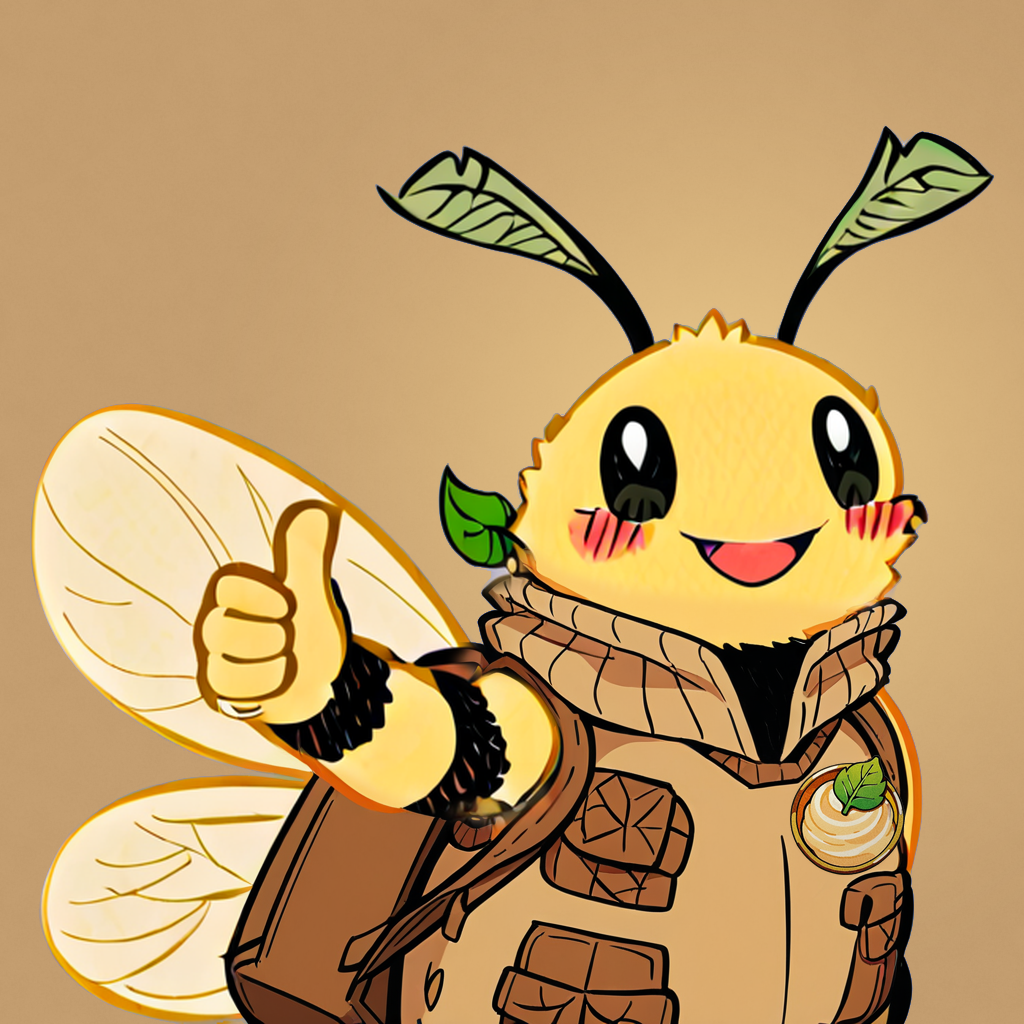
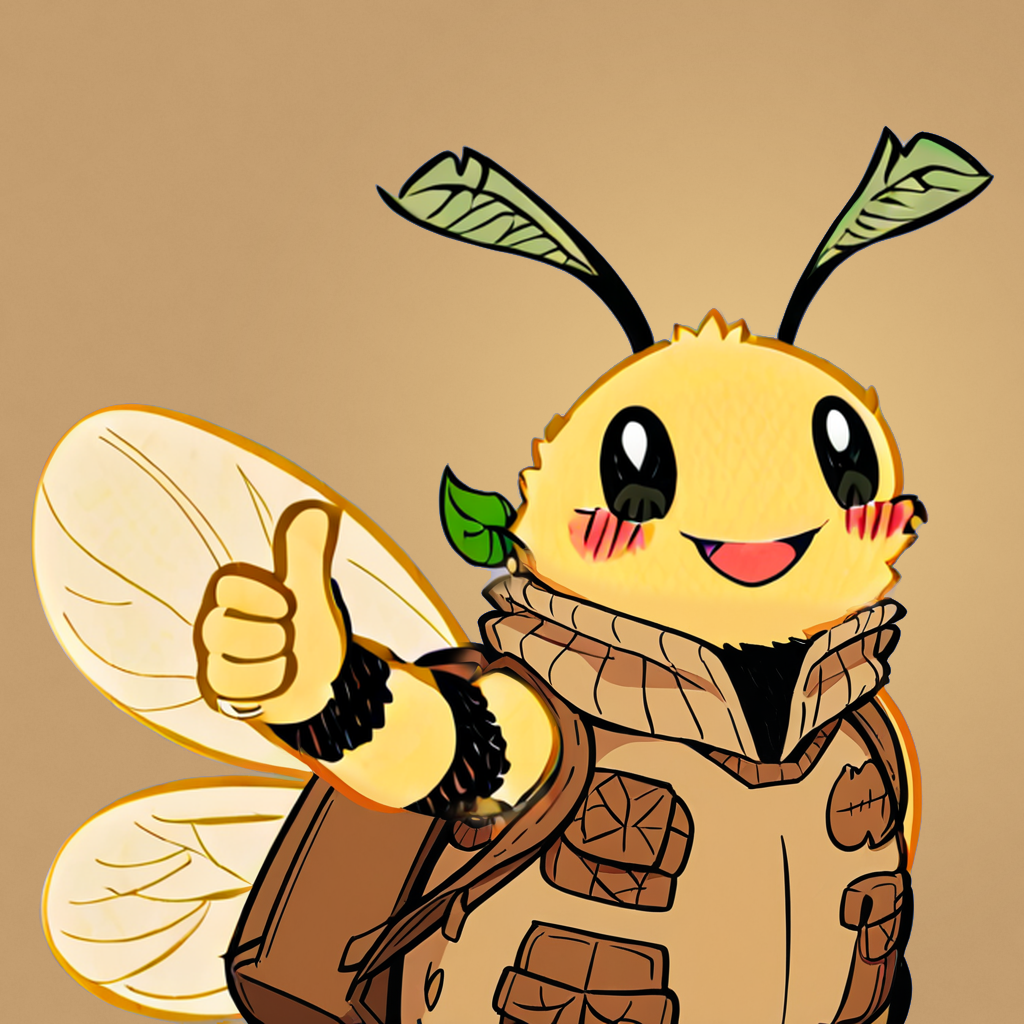
Rank cards without the item circle and the collar badge
The five Bee Guardian rank pictures, the showcase cards, the share art and
the How it works stamp picture are re-rendered without them.

Claude-Session: https://claude.ai/code/session_01HWHP3iugw8gkvvKKS5vpBj

Changed region(s): [[0.75, 0.7188, 0.9062, 0.875]]

diff --git a/components/landing/Landing.tsx b/components/landing/Landing.tsx
@@ -55,7 +55,7 @@ function PhoneMockup() {
         ))}
       </ul>
       <div className="mt-3 flex items-center gap-2 rounded-xl bg-kraft/50 p-2">
-        <Image src="/landing/cards/warden.webp" alt="" width={600} height={840} sizes="40px" className="w-10 rounded-md" />
+        <Image src="/landing/cards/v2/warden.webp" alt="" width={600} height={840} sizes="40px" className="w-10 rounded-md" />
         <span className="text-[12px] font-bold leading-tight">Bee Guardian · Warden<br /><span className="font-semibold text-cocoa/80">Soulbound NFT, earned at {RANKS[1].at} points</span></span>
       </div>
     </div>
@@ -292,7 +292,7 @@ export default async function Landing({ stats }: { stats: LandingStats | null })
               <ul className="scroll-snap-x no-scrollbar -mx-5 mt-3 flex gap-4 overflow-x-auto px-5 pb-2 sm:-mx-10 sm:px-10 lg:mx-0 lg:mt-8 lg:grid lg:grid-cols-5 lg:gap-3 lg:overflow-visible lg:px-0" aria-label="The five Bee Guardian ranks">
                 {RANKS.map((r, i) => (
                   <li key={r.key} className="w-[150px] shrink-0 text-center lg:w-auto" style={{ transform: `rotate(${(i - 2) * 2.5}deg)` }}>
-                    <Image src={`/landing/cards/${r.key}.webp`} alt={`${r.name} Bee Guardian card`} width={600} height={840} sizes="150px" className="w-full rounded-[10px] shadow-[0_10px_24px_rgba(58,42,28,0.25)]" />
+                    <Image src={`/landing/cards/v2/${r.key}.webp`} alt={`${r.name} Bee Guardian card`} width={600} height={840} sizes="150px" className="w-full rounded-[10px] shadow-[0_10px_24px_rgba(58,42,28,0.25)]" />
                     <span className="mt-3 block text-[14px] font-extrabold">{r.name}</span>
                     <span className="block text-[12px] font-bold text-cocoa/80">{r.at} point{r.at === 1 ? "" : "s"}</span>
                   </li>

diff --git a/components/landing/HowItWorks.tsx b/components/landing/HowItWorks.tsx
@@ -118,7 +118,7 @@ export default function HowItWorks({ r }: { r: LandingRecord | null }) {
           <div className="grid gap-8 md:grid-cols-[minmax(0,5fr)_minmax(0,7fr)] md:items-center md:gap-12">
             <div className="mx-auto w-full max-w-[420px]">
               {open ? <StampJourney door="visit" r={r} /> : (
-                <Image src={`${PIC}/stamp.webp`} alt="Four steps on kraft paper: a phone scans the EcoProof QR code, the record is hashed and written to Solana as a proof, the stamp lands in the eco passport, and the Sentinel Bee Guardian card is minted" width={800} height={800} sizes="(min-width: 768px) 420px, 100vw" className="sticker aspect-square w-full object-cover" style={{ transform: "rotate(1.2deg)" }} />
+                <Image src={`${PIC}/stamp-clean.webp`} alt="Four steps on kraft paper: a phone scans the EcoProof QR code, the record is hashed and written to Solana as a proof, the stamp lands in the eco passport, and the Sentinel Bee Guardian card is minted" width={800} height={800} sizes="(min-width: 768px) 420px, 100vw" className="sticker aspect-square w-full object-cover" style={{ transform: "rotate(1.2deg)" }} />
               )}
             </div>
             <div>

diff --git a/components/landing/HeroArt.tsx b/components/landing/HeroArt.tsx
@@ -42,7 +42,7 @@ export default function HeroArt() {
       <div className="fan absolute bottom-[26px] left-1/2 h-[280px] w-[200px] -translate-x-1/2 lg:bottom-[40px] lg:h-[420px] lg:w-[300px]">
         {RANKS.map((rank) => (
           <div key={rank.key} className="fan-card absolute inset-0 origin-bottom" style={{ "--r": `${fan[rank.key].r}deg`, "--ro": `${fan[rank.key].r * 2.2}deg`, zIndex: fan[rank.key].z } as React.CSSProperties}>
-            <Image src={`/landing/cards/${rank.key}.webp`} alt={`${rank.name} rank card`} width={600} height={840} priority={rank.key === "paragon"} sizes="(min-width: 1024px) 300px, 200px" className="h-full w-full rounded-[12px] shadow-[0_18px_40px_rgba(58,42,28,0.28)] lg:rounded-[16px]" />
+            <Image src={`/landing/cards/v2/${rank.key}.webp`} alt={`${rank.name} rank card`} width={600} height={840} priority={rank.key === "paragon"} sizes="(min-width: 1024px) 300px, 200px" className="h-full w-full rounded-[12px] shadow-[0_18px_40px_rgba(58,42,28,0.28)] lg:rounded-[16px]" />
           </div>
         ))}
       </div>

diff --git a/components/landing/MapPicture.tsx b/components/landing/MapPicture.tsx
@@ -95,7 +95,7 @@ function ScanPhone() {
       </div>
       <p className="mt-2 flex items-center gap-1.5 rounded-xl bg-white/70 px-2.5 py-2 text-[11px] font-bold leading-snug"><Check size={14} strokeWidth={3} className="shrink-0 text-[#56633f]" aria-hidden /> Proof written to Solana. Nobody can fake it.</p>
       <div className="mt-2 flex items-center gap-2.5 rounded-xl bg-white/70 px-2.5 py-2">
-        <Image src="/landing/cards/sentinel.webp" alt="" width={600} height={840} sizes="40px" className="w-10 rounded-[5px] shadow-sm" />
+        <Image src="/landing/cards/v2/sentinel.webp" alt="" width={600} height={840} sizes="40px" className="w-10 rounded-[5px] shadow-sm" />
         <p className="text-[11px] font-bold leading-snug">Bee Guardian NFT unlocked and minted<span className="font-journal-display block text-[15px] leading-tight">Sentinel</span></p>
       </div>
     </div>

diff --git a/CLAUDE.md b/CLAUDE.md
@@ -97,7 +97,7 @@ on Solana. For sustainable shops, cafés, markets and online brands.
   (same Illustrious checkpoint as the cards), as two static images: the plate's own sky extended upward (`sky_static.py`) behind the copy, and
   the island cutout (`layers_cut.py`) under it; `export_web.py <folder> <ver>` → `public/landing/island/<ver>/`, a new folder per plate so
   caches bust; current `v4`. A scroll parallax was tried and dropped (not seen as moving, blurred the strip). The Bee Guardian cutout (`public/landing/bee.webp`, from `art/v2/ranks/sentinel/sentinel_card.png`) peeks in. The
-  card-fan hero (`components/landing/HeroArt.tsx`, `public/landing/cards/*.webp`, 2x of 300x420, from `art/v2/compositor/samples/`, SVG stamp
+  card-fan hero (`components/landing/HeroArt.tsx`, `public/landing/cards/v2/*.webp`, 2x of 300x420, from `art/v2/compositor/samples/`, SVG stamp
   rings) stays behind `NEXT_PUBLIC_LANDING_HERO=cards`. Paper grain and stamps are CSS. Buildings inpainted onto the island (`inpaint.py`,
   `v3_*.py`) never matched; the island stays as generated. The earlier SD flat-lay hero (`art/hero-r1/`, `art/v2/hero/`) was dropped for mixing two styles; the owner-door photos (`public/landing/doors/v6/`). Since 2026-11-18 every picture of a place shows the real A6 postcard, not a bare QR card (Pola): `art/postcard/` holds the recipe. `gen.py <scene> <seeds>` renders epicrealismXL scenes with one blank portrait card on a wooden stand (café 403, restaurant 403, hotel `reception2` 436, eco store 402 are the picks; a card on a hotel bedside table never stood up, so the hotel is a reception desk, and the card must stand upright and face the camera: a leaning one reads as a crooked print); the card is the app's own print of a local demo place (`brave --headless --print-to-pdf http://localhost:3000/place/<id>?size=a4`, `pdftoppm -r 150 -png`; local-only places demo-cafe, demo-restaurant, demo-hotel (named "Riverside Resort", without "Demo", since 2026-11-18: Pola), demo-eco-shop), `web_qr.py` swaps its QR for one to https://ecoproof.app, and `compose.py <cafe|restaurant|hotel|store>` finds the blank card and multiplies the postcard onto it → `out_<key>.png`. In use: café = `steps/v2/counter-card.webp`, restaurant = `doors/v6/coffee.webp`, hotel = `doors/v6/hotel.webp`; the store one (`out_store.png`) is made but not placed. The store door keeps the earlier receipt photo
   (from `art/doors/v2/`: epicrealismXL scenes with blank surfaces, `gen.py`, restaurant seed 202, hotel 211, store 203 with the hand repainted off the
@@ -125,8 +125,8 @@ on Solana. For sustainable shops, cafés, markets and online brands.
   Sentinel is the young hooded bee (peace sign), Warden the former Sentinel (thumbs up), Guardian goggles (high five), Vanguard bandana (fist pump),
   Paragon spectacles and staff. Renders carry no badges or items (the compositor adds them), no visible abdomen, natural antennae, fuzzy ink arm bands,
   a fuzz head edge with no outline. Live cards: `art/v2/ranks/<rank>/<rank>_card.png` (old ones kept as `_prev`). After a card change run `node art/v2/compositor/nft-art.mjs`
-  (static `public/nft/<rank>.png`: fixed background, rank aura, leaf badge, no item) then `npx tsx scripts/nft-webp.ts`, and `node art/v2/compositor/samples.mjs`
-  (sample cards; `public/share/art/` is the 640px copy of their `_art.png`). The gold outline aura is built from each card's own alpha in `compose.mjs`. `art/v2/ranks`, `layers` and `compositor` are not in git (300 MB of renders); only `personas/pick` and the scripts are.
+  (static `public/nft/<rank>.png`: fixed background, rank aura, no collar badge, no item; Pola, 2026-11-18: no circles on the rank cards, so `pickTraits` in `compose.mjs` gives rank cards `item: "none"` and `badge: "none"`, achievements keep theirs for now) then `npx tsx scripts/nft-webp.ts`, and `node art/v2/compositor/samples.mjs`
+  (sample cards; `public/share/art/` is the 640px copy of their `_art.png`, `public/landing/cards/v2/` the 600x840 copy of the five rank samples; then `node art/steps/stamp/compose.mjs` for the "How it works" stamp picture, which shows the Sentinel card, and copy its output to `public/landing/steps/v2/stamp-clean.webp`). The gold outline aura is built from each card's own alpha in `compose.mjs`. `art/v2/ranks`, `layers` and `compositor` are not in git (300 MB of renders); only `personas/pick` and the scripts are.
 - Declarations: `place_practices` is the owner's private draft. "Publish…" (warning sheet, at
   most once a day, refused if unchanged) freezes it into `practice_declarations` (versions, never
   edited) and writes its SHA-256 to Solana (memo + claim account keyed on its id,
